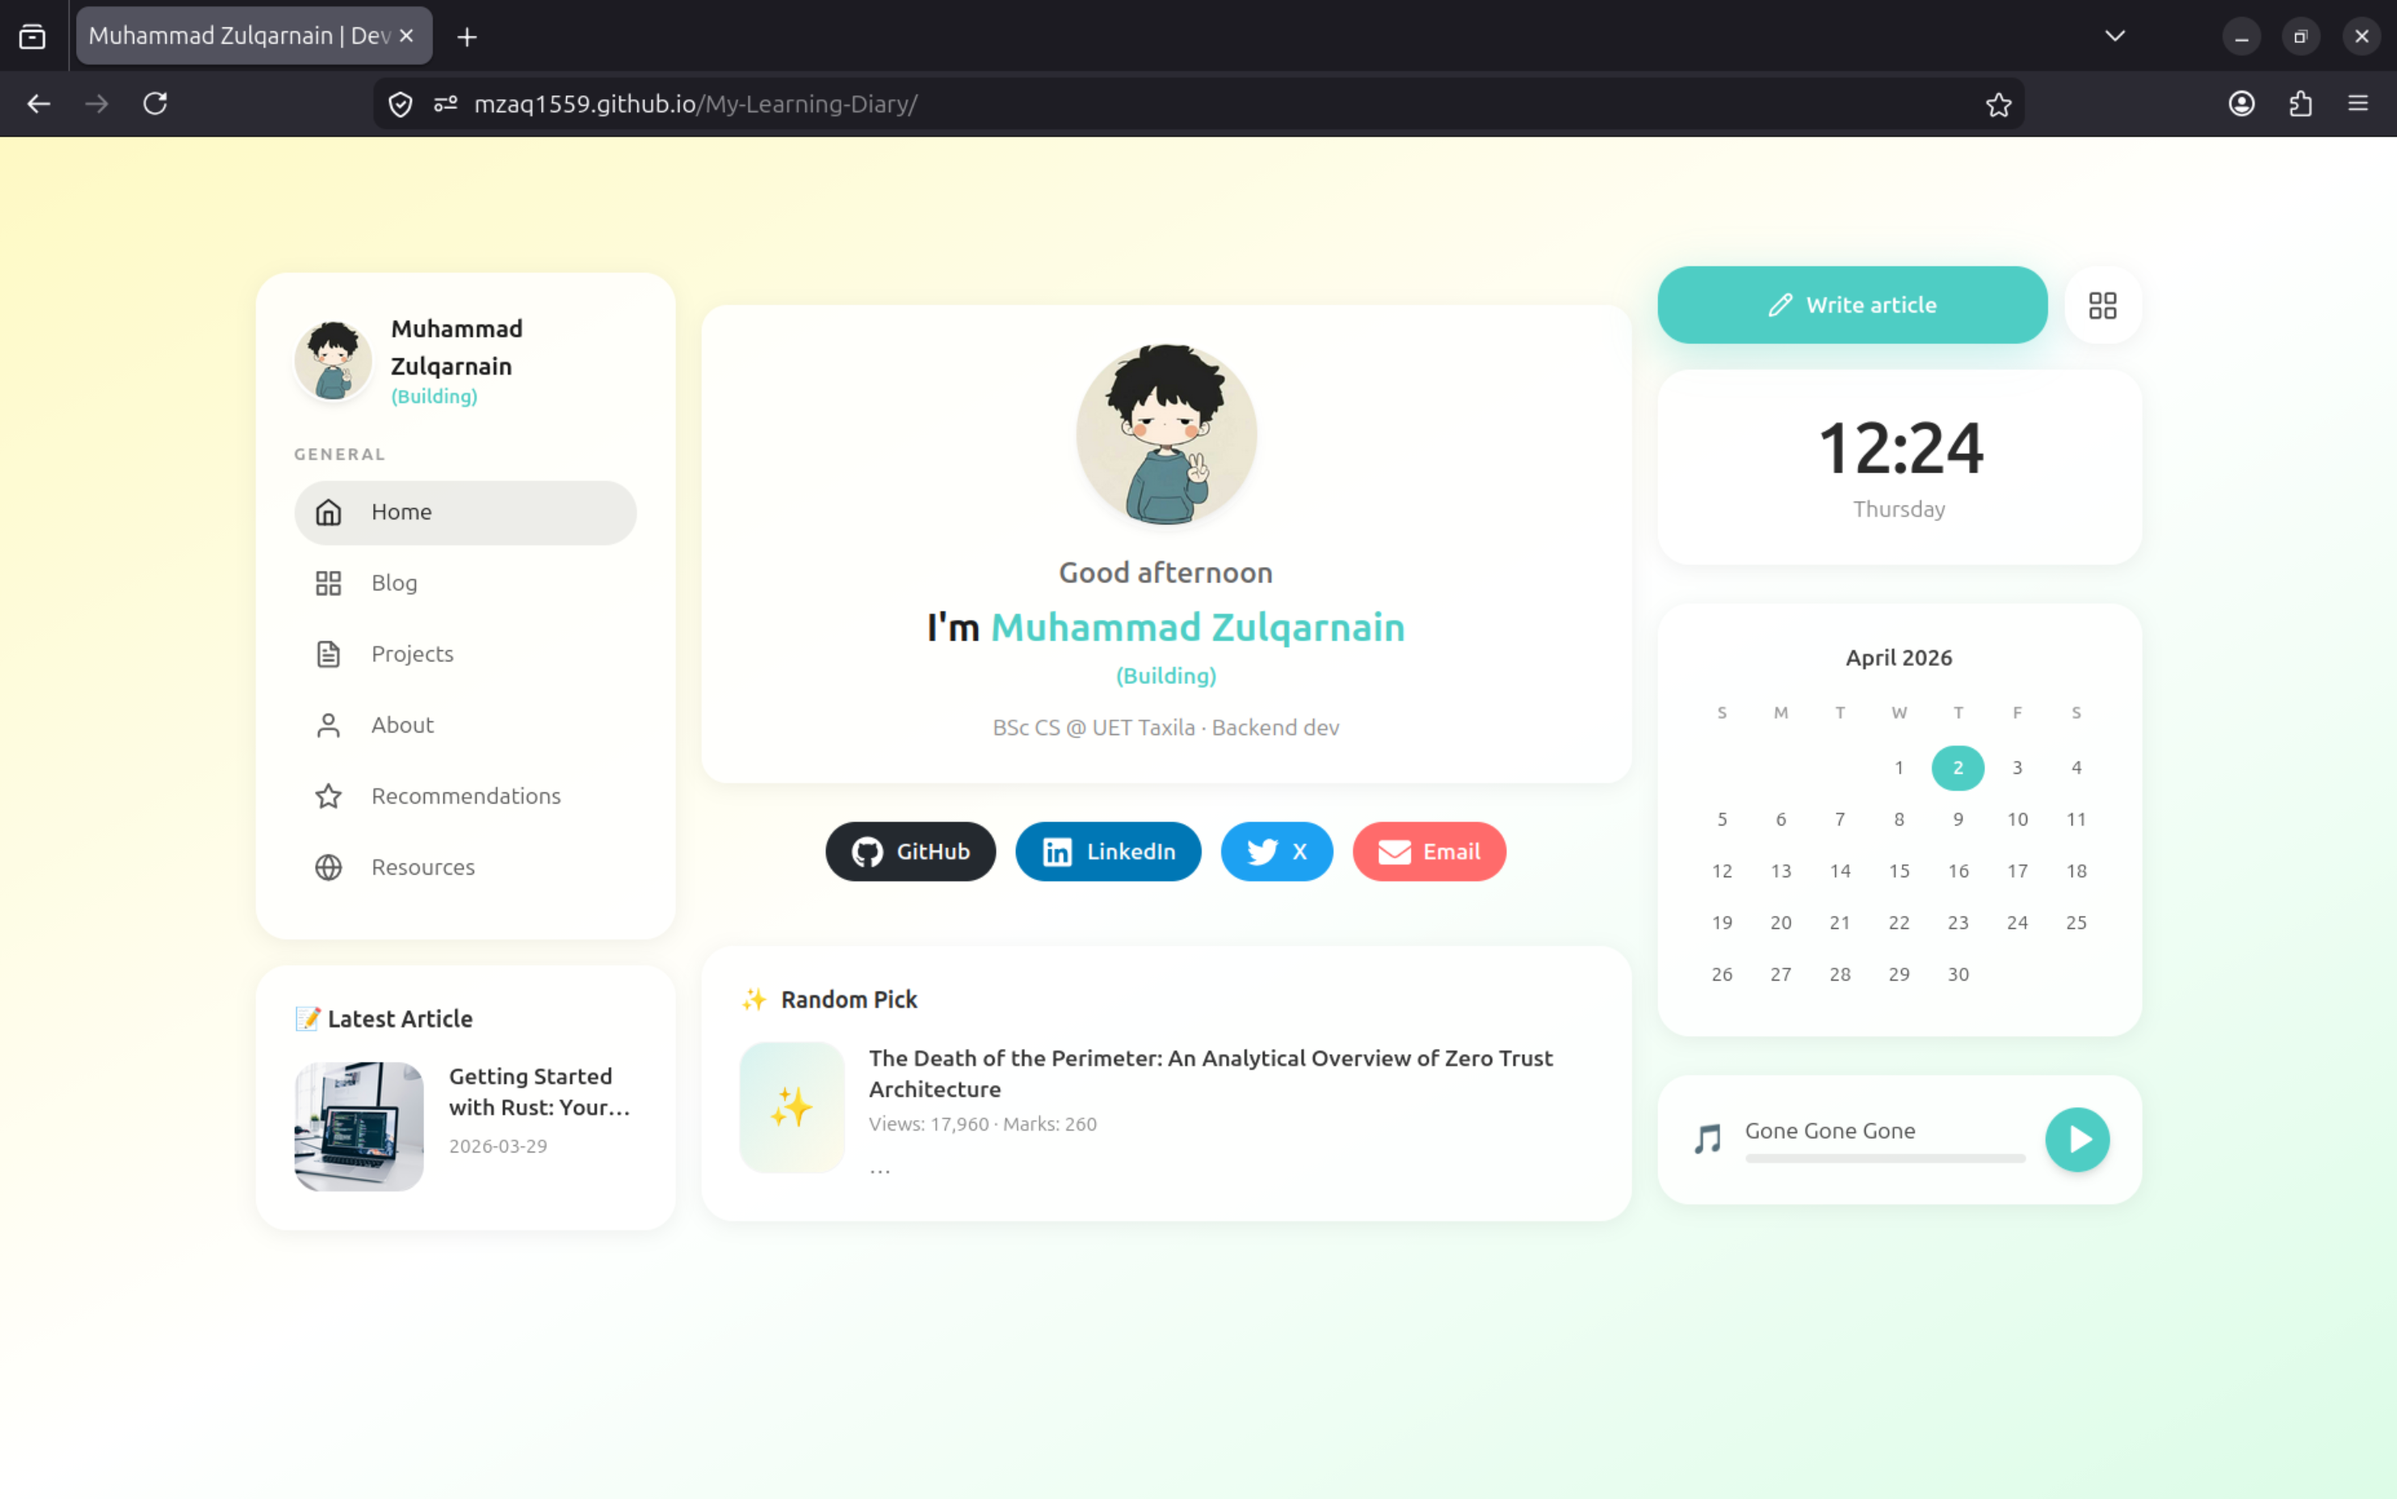
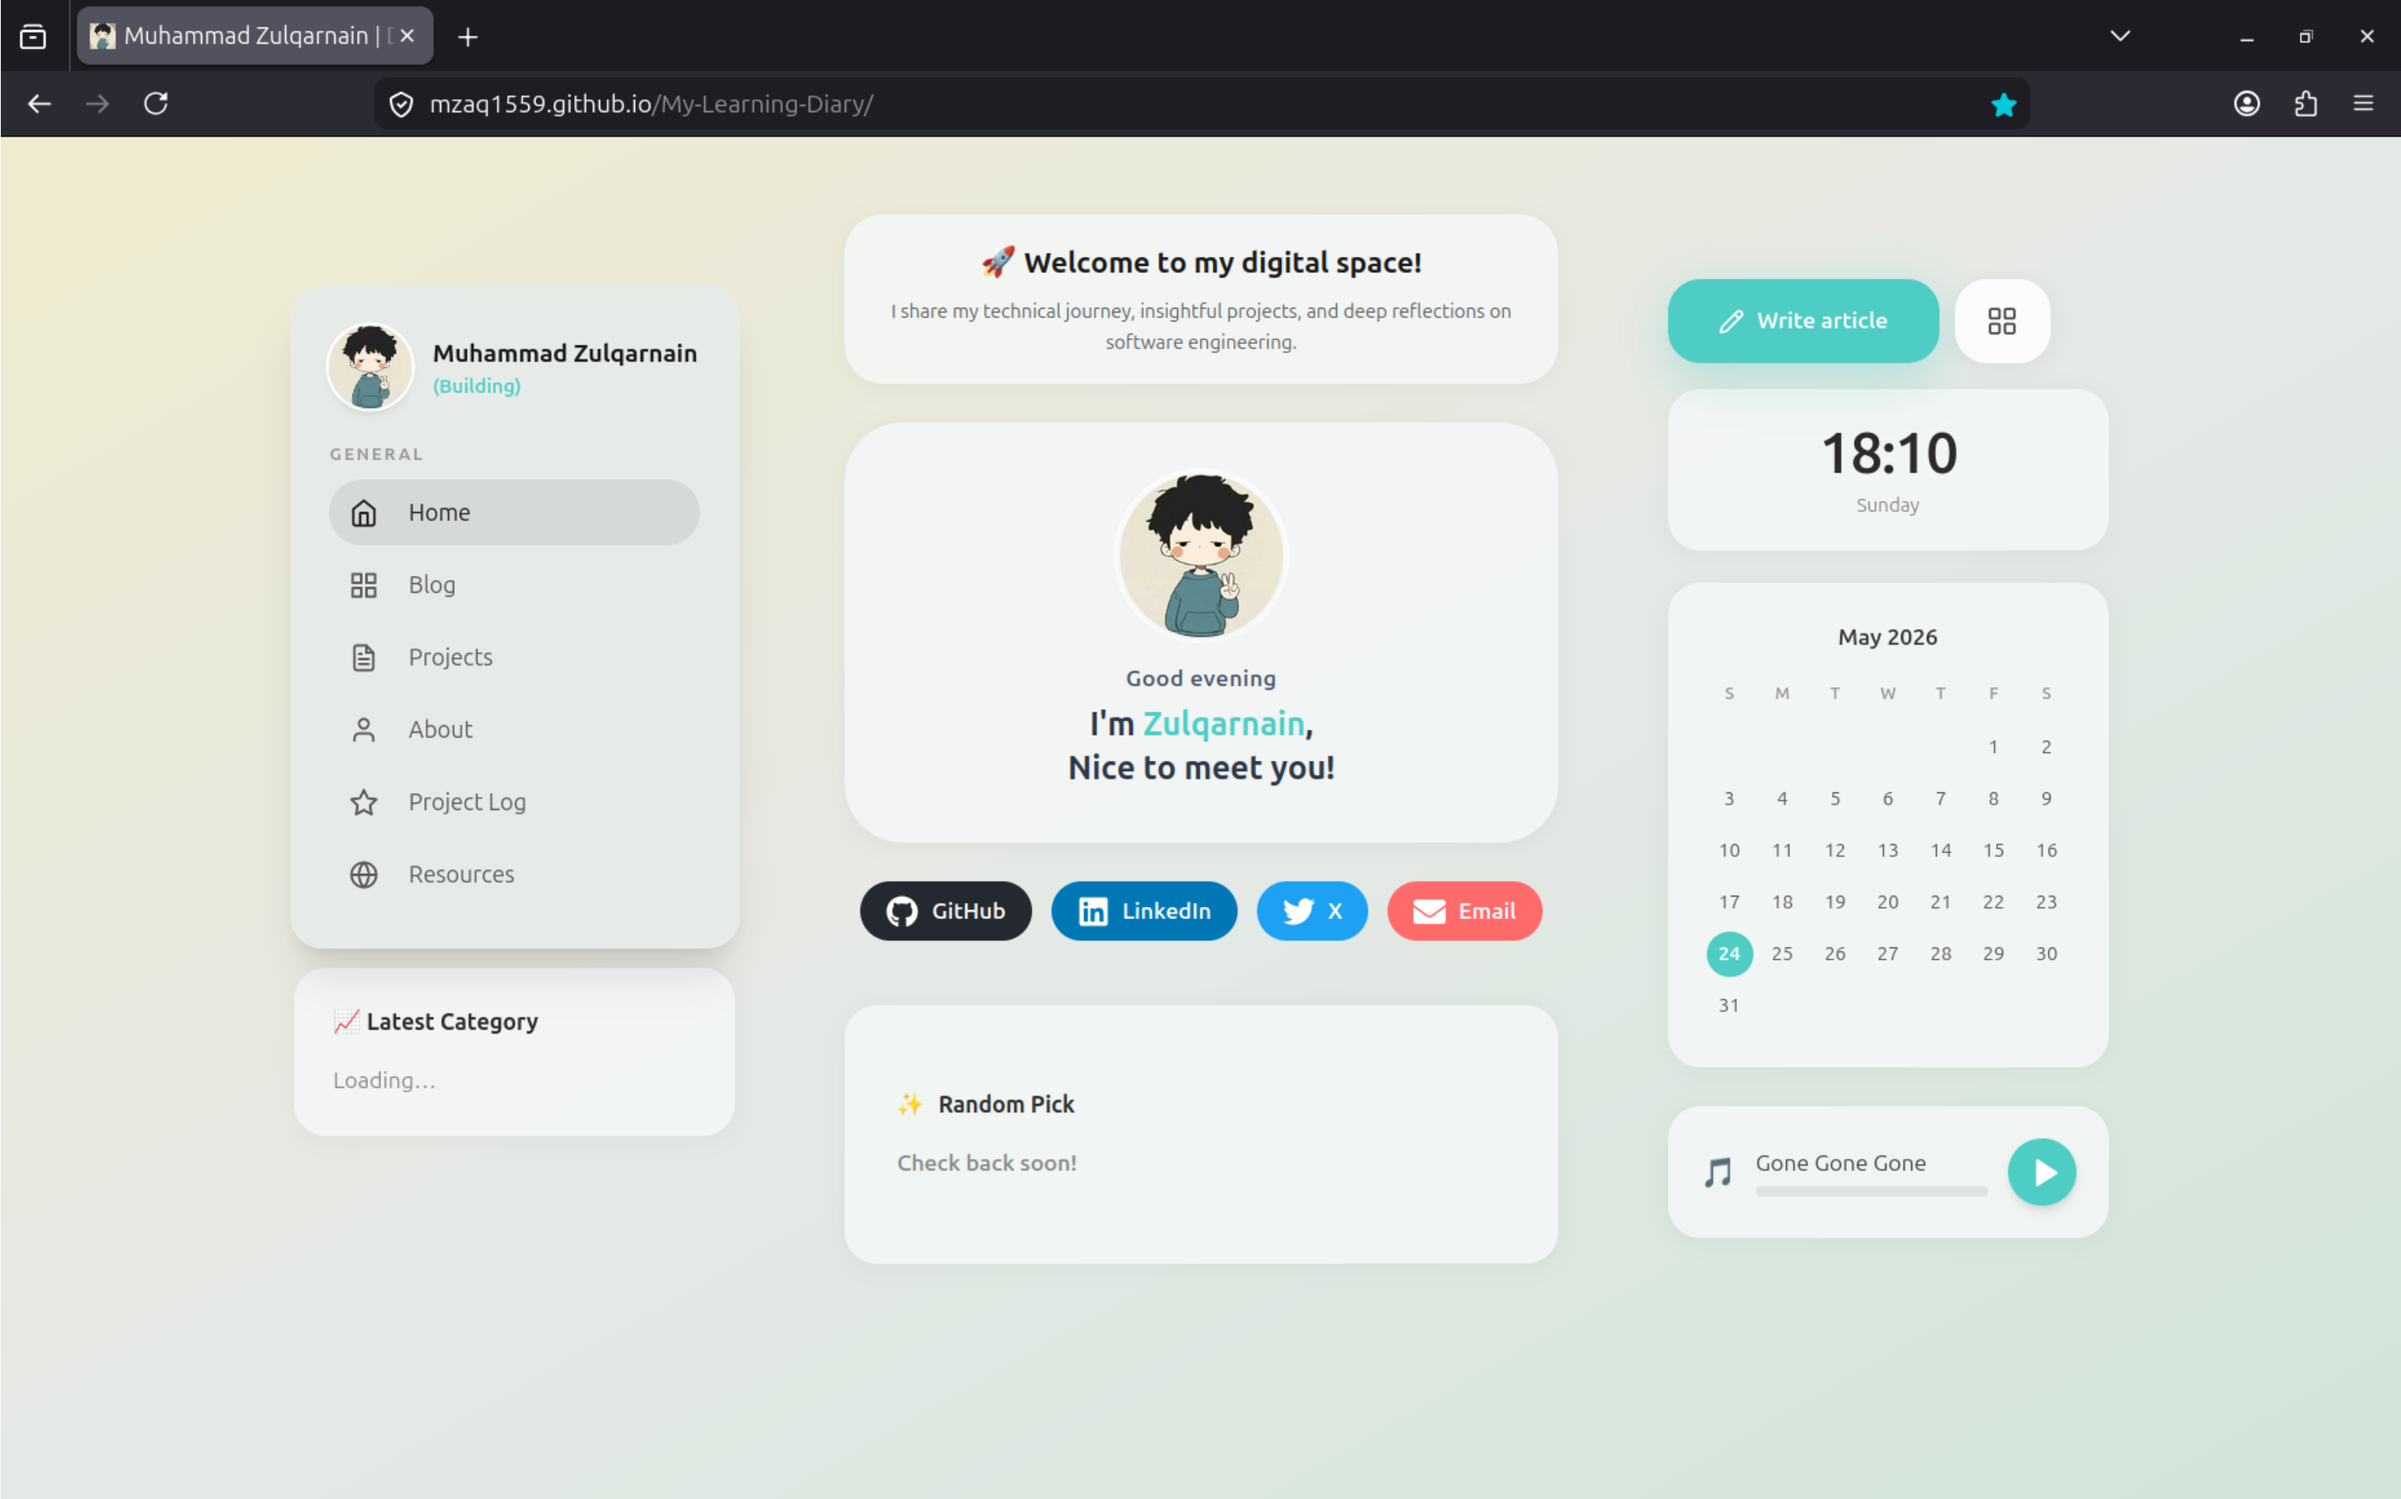
added another post

diff --git a/project-log/building-e-shop-react-frontend/README.md b/project-log/building-e-shop-react-frontend/README.md
@@ -1,0 +1,147 @@
+---
+title: Building an E-Shop — React Frontend from Scratch
+slug: building-e-shop-react-frontend
+date: 2026-05-24
+tags: [React, Vite, JavaScript, Frontend, E-Commerce, Context API]
+category: Project Log
+cover: ./images/cover.png
+---
+
+## From a Static HTML Page to a Full React Storefront
+
+This one started as a plain HTML/CSS/Bootstrap semester project — a simple product listing page with no interactivity. Over time I got frustrated with how limited it was, so I rebuilt it from scratch using React and Vite. The result is a fully functional e-commerce frontend with a cart, auth modals, an admin dashboard, and proper state management.
+
+Here's a walkthrough of what I built and how it works.
+
+---
+
+## Project Structure
+
+The app lives under `src/` and is split into pages, components, context, and data — a pretty standard React structure.
+
+```
+src/
+├── components/
+│   ├── Navigation.jsx
+│   ├── Footer.jsx
+│   ├── ProductCard.jsx
+│   ├── LoginModal.jsx
+│   └── SignUpModal.jsx
+├── context/
+│   └── ShopContext.jsx
+├── data/
+│   └── products.js
+└── pages/
+    ├── Home.jsx
+    ├── Shop.jsx
+    ├── Cart.jsx
+    ├── About.jsx
+    ├── Contact.jsx
+    ├── FAQs.jsx
+    └── AdminDashboard.jsx
+```
+
+The `legacy_site/` folder is still there — it's the original Bootstrap version I started with. Keeping it around as a reminder of how far the project has come.
+
+---
+
+## The Home Page
+
+![Home page with hero carousel and featured products](./images/home-page.png)
+_Home page — hero carousel, featured products, and navigation_
+
+The home page has a carousel of banner images (`carousel1.jpg`, `carousel2.jpg`, `carousel3.jpg`) and a featured products section that pulls from the `products.js` seed file. Each product displays using the `ProductCard` component.
+
+---
+
+## Shop Page & Product Cards
+
+![Shop page showing product grid](./images/shop-page.png)
+_Shop page — full product grid with add-to-cart buttons_
+
+The shop renders all products from `products.js` in a grid. Each product has multiple image variants (e.g. `1a.jpg` through `1h.jpg` for colour/view switches) which I handle by cycling through the image array on hover.
+
+The `ProductCard` component is kept simple — product image, name, price, and an "Add to Cart" button that dispatches to the context.
+
+---
+
+## State Management with Context API
+
+Rather than reaching for Redux, I used React's built-in Context API. `ShopContext.jsx` holds:
+
+- The full product list
+- Cart state (items + quantities)
+- Auth state (logged in / logged out, current user)
+- Handlers: `addToCart`, `removeFromCart`, `updateQuantity`, `login`, `logout`, `signup`
+
+Every component that needs cart or auth data consumes this context via `useContext(ShopContext)`. It keeps things clean without over-engineering for a project of this scale.
+
+---
+
+## Cart Page
+
+![Cart page with item list and total](./images/cart-page.png)
+_Cart page — item list, quantity controls, and order total_
+
+The cart page reads directly from context. Users can increase/decrease quantity or remove items entirely. The total updates reactively as they interact. No backend — everything is in-memory for now, which is fine for a frontend-only project.
+
+---
+
+## Login & Signup Modals
+
+![Login modal overlay](./images/login-modal.png)
+_Login modal — overlays on top of any page_
+
+Auth is handled through two modal components: `LoginModal.jsx` and `SignUpModal.jsx`. They're triggered from the `Navigation` component and rendered as overlays. State (open/closed, form values, errors) is managed locally inside each modal, while the actual auth state lives in `ShopContext`.
+
+---
+
+## Admin Dashboard
+
+![Admin dashboard with product management table](./images/admin-dashboard.png)
+_Admin dashboard — product CRUD and access control_
+
+This was the most interesting part to build. The `AdminDashboard.jsx` page is access-controlled — only users with an admin role can reach it. It lets you:
+
+- View all products in a table
+- Add a new product via a modal form
+- Edit existing product details
+- Delete products
+
+The access control check runs at the top of the component and redirects non-admin users back to the home page. Product changes update the context state directly, so the shop reflects them immediately without a page reload.
+
+---
+
+## What I Learned
+
+A few things that stood out building this:
+
+**Context API scales well enough for small apps.** I was initially going to use Redux but Context + `useReducer` handled everything I needed without the boilerplate.
+
+**Component boundaries matter.** Early on I had too much logic inside pages directly. Extracting `ProductCard`, `LoginModal`, and `SignUpModal` into their own components made the pages much easier to reason about.
+
+**The gap between static HTML and a real SPA is huge.** The legacy Bootstrap version is in the same repo and seeing both side by side makes it obvious — routing, state, reactivity — none of that exists in plain HTML.
+
+---
+
+## Stack
+
+| Tool               | Purpose                 |
+| ------------------ | ----------------------- |
+| React 18           | UI framework            |
+| Vite               | Build tool & dev server |
+| React Context API  | Global state            |
+| Bootstrap (legacy) | Original static version |
+| ESLint             | Linting                 |
+
+---
+
+## What's Next
+
+The obvious next step is adding a real backend — an Express or FastAPI server with a proper database, user authentication with JWT, and persistent cart/order data. That would turn this from a frontend demo into something deployable.
+
+For now it serves its purpose: a solid semester project that I actually understand end to end.
+
+---
+
+_Source code on [GitHub](https://github.com/Mzaq1559/E-Shop)_
